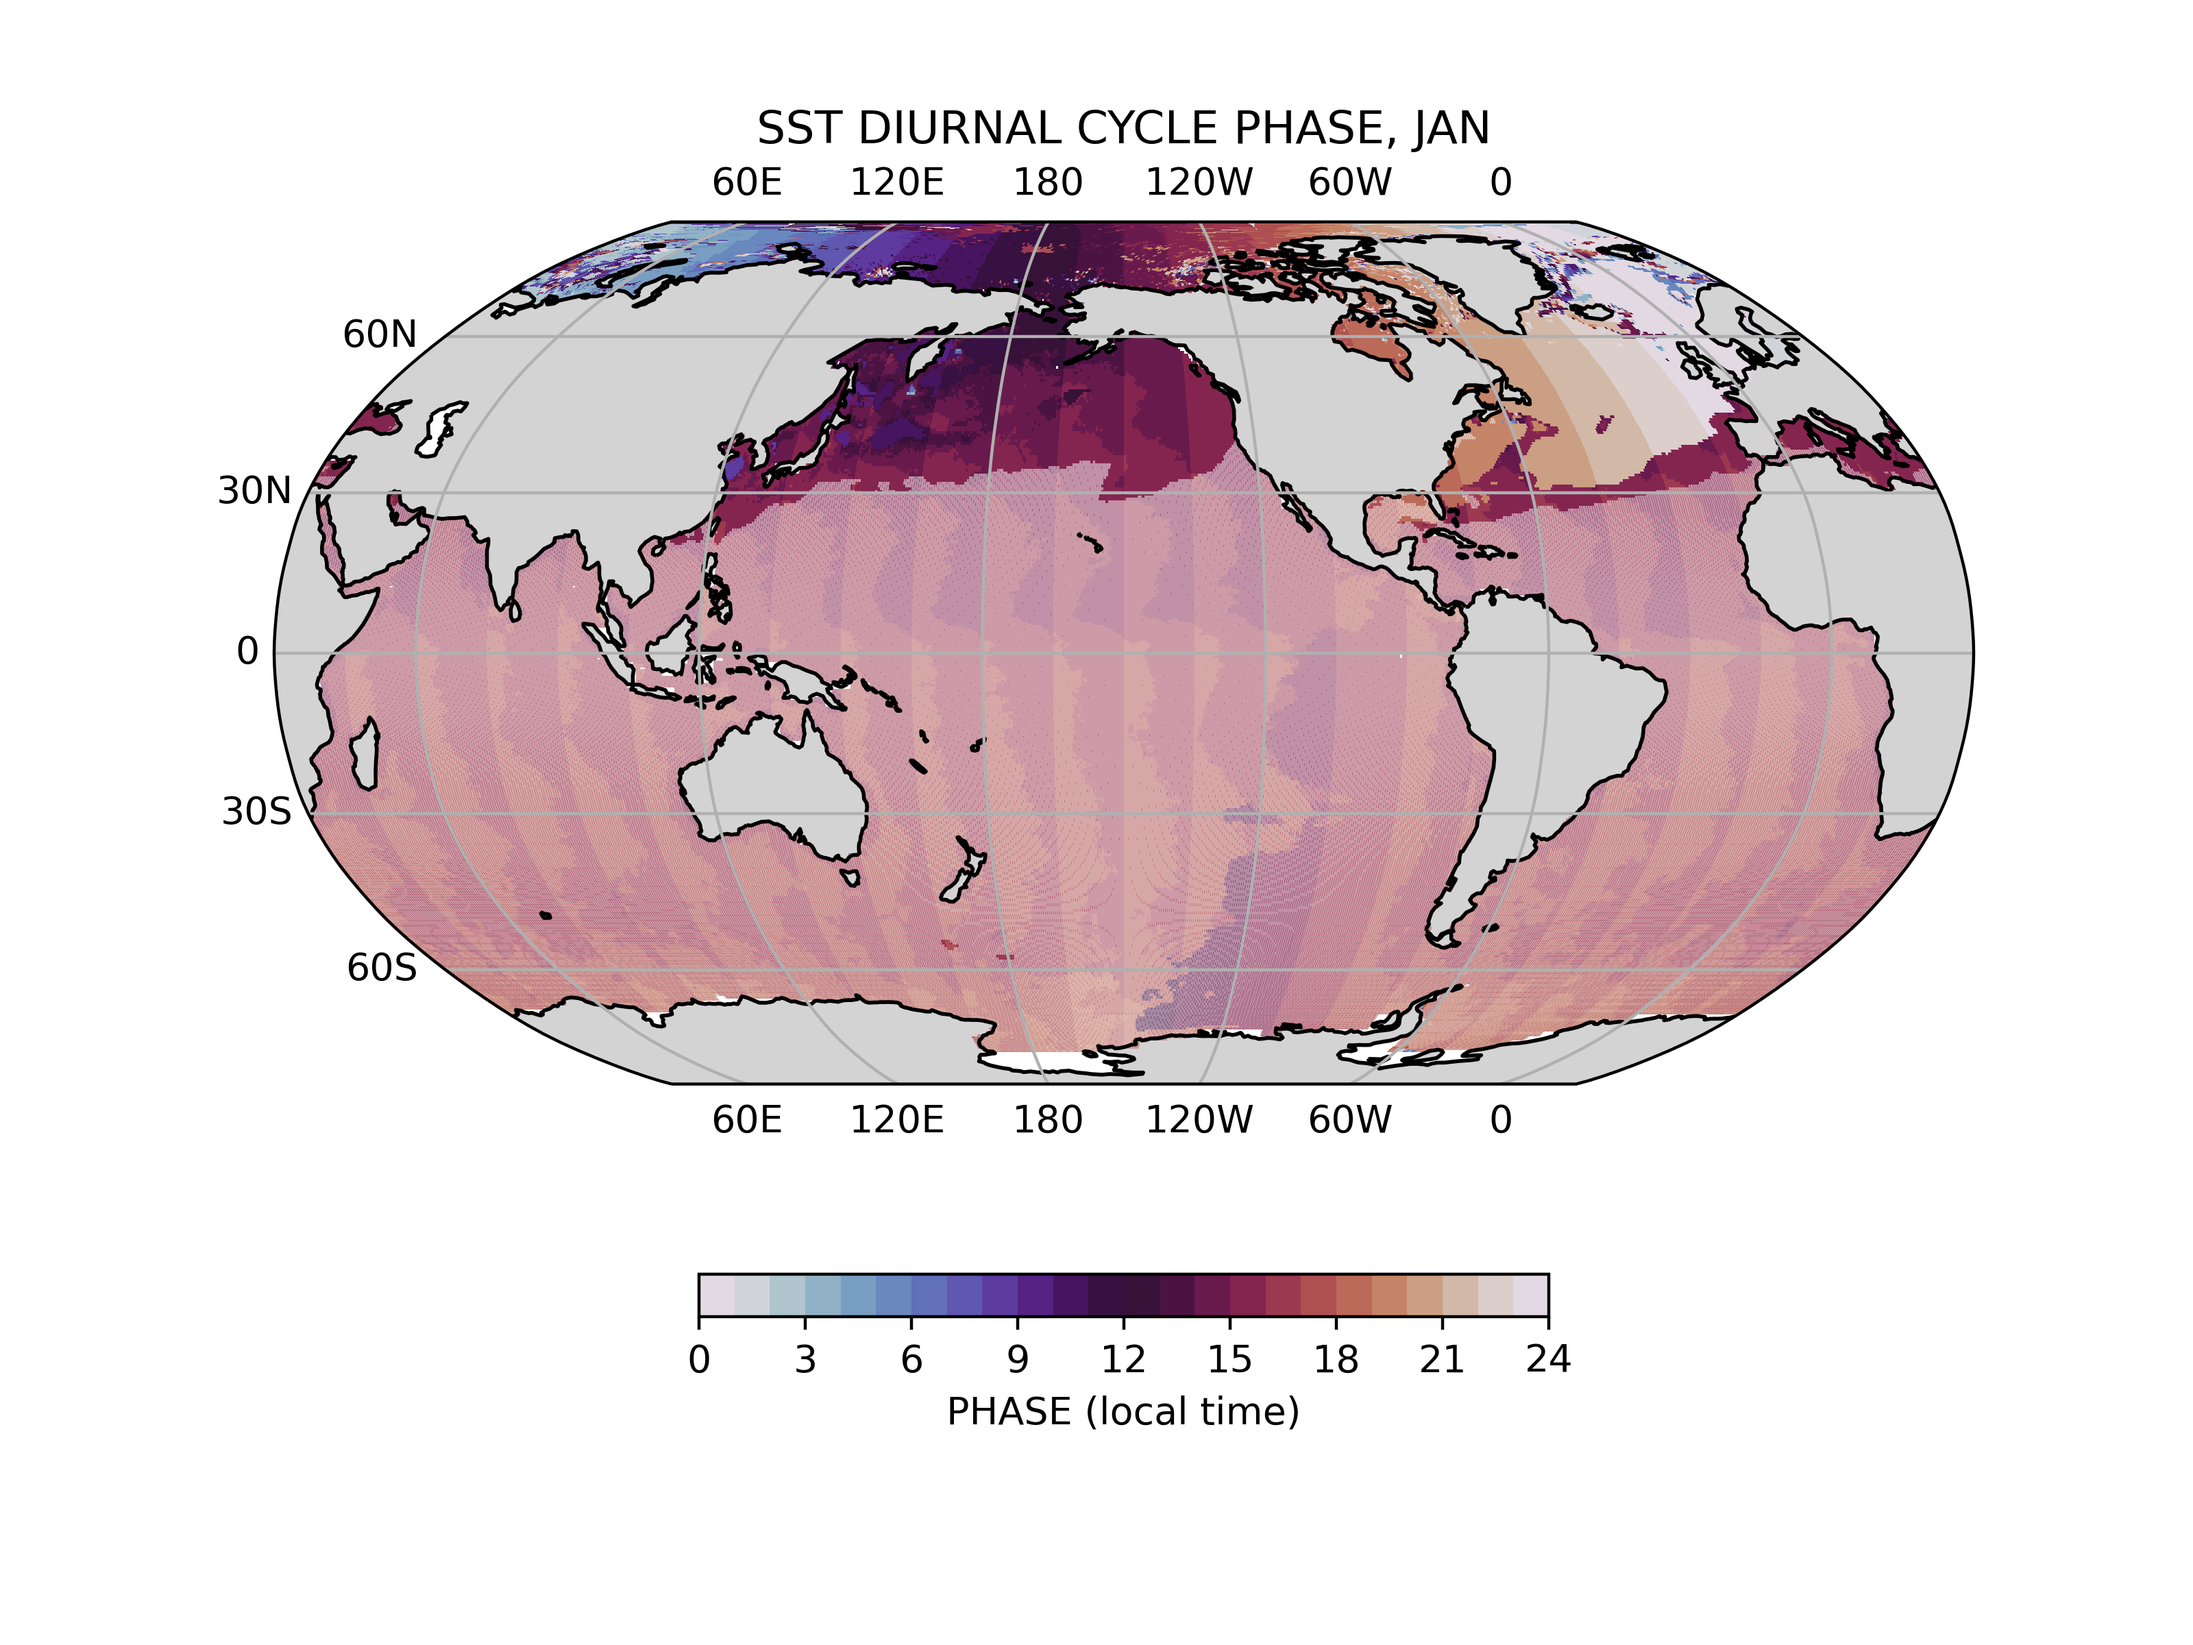
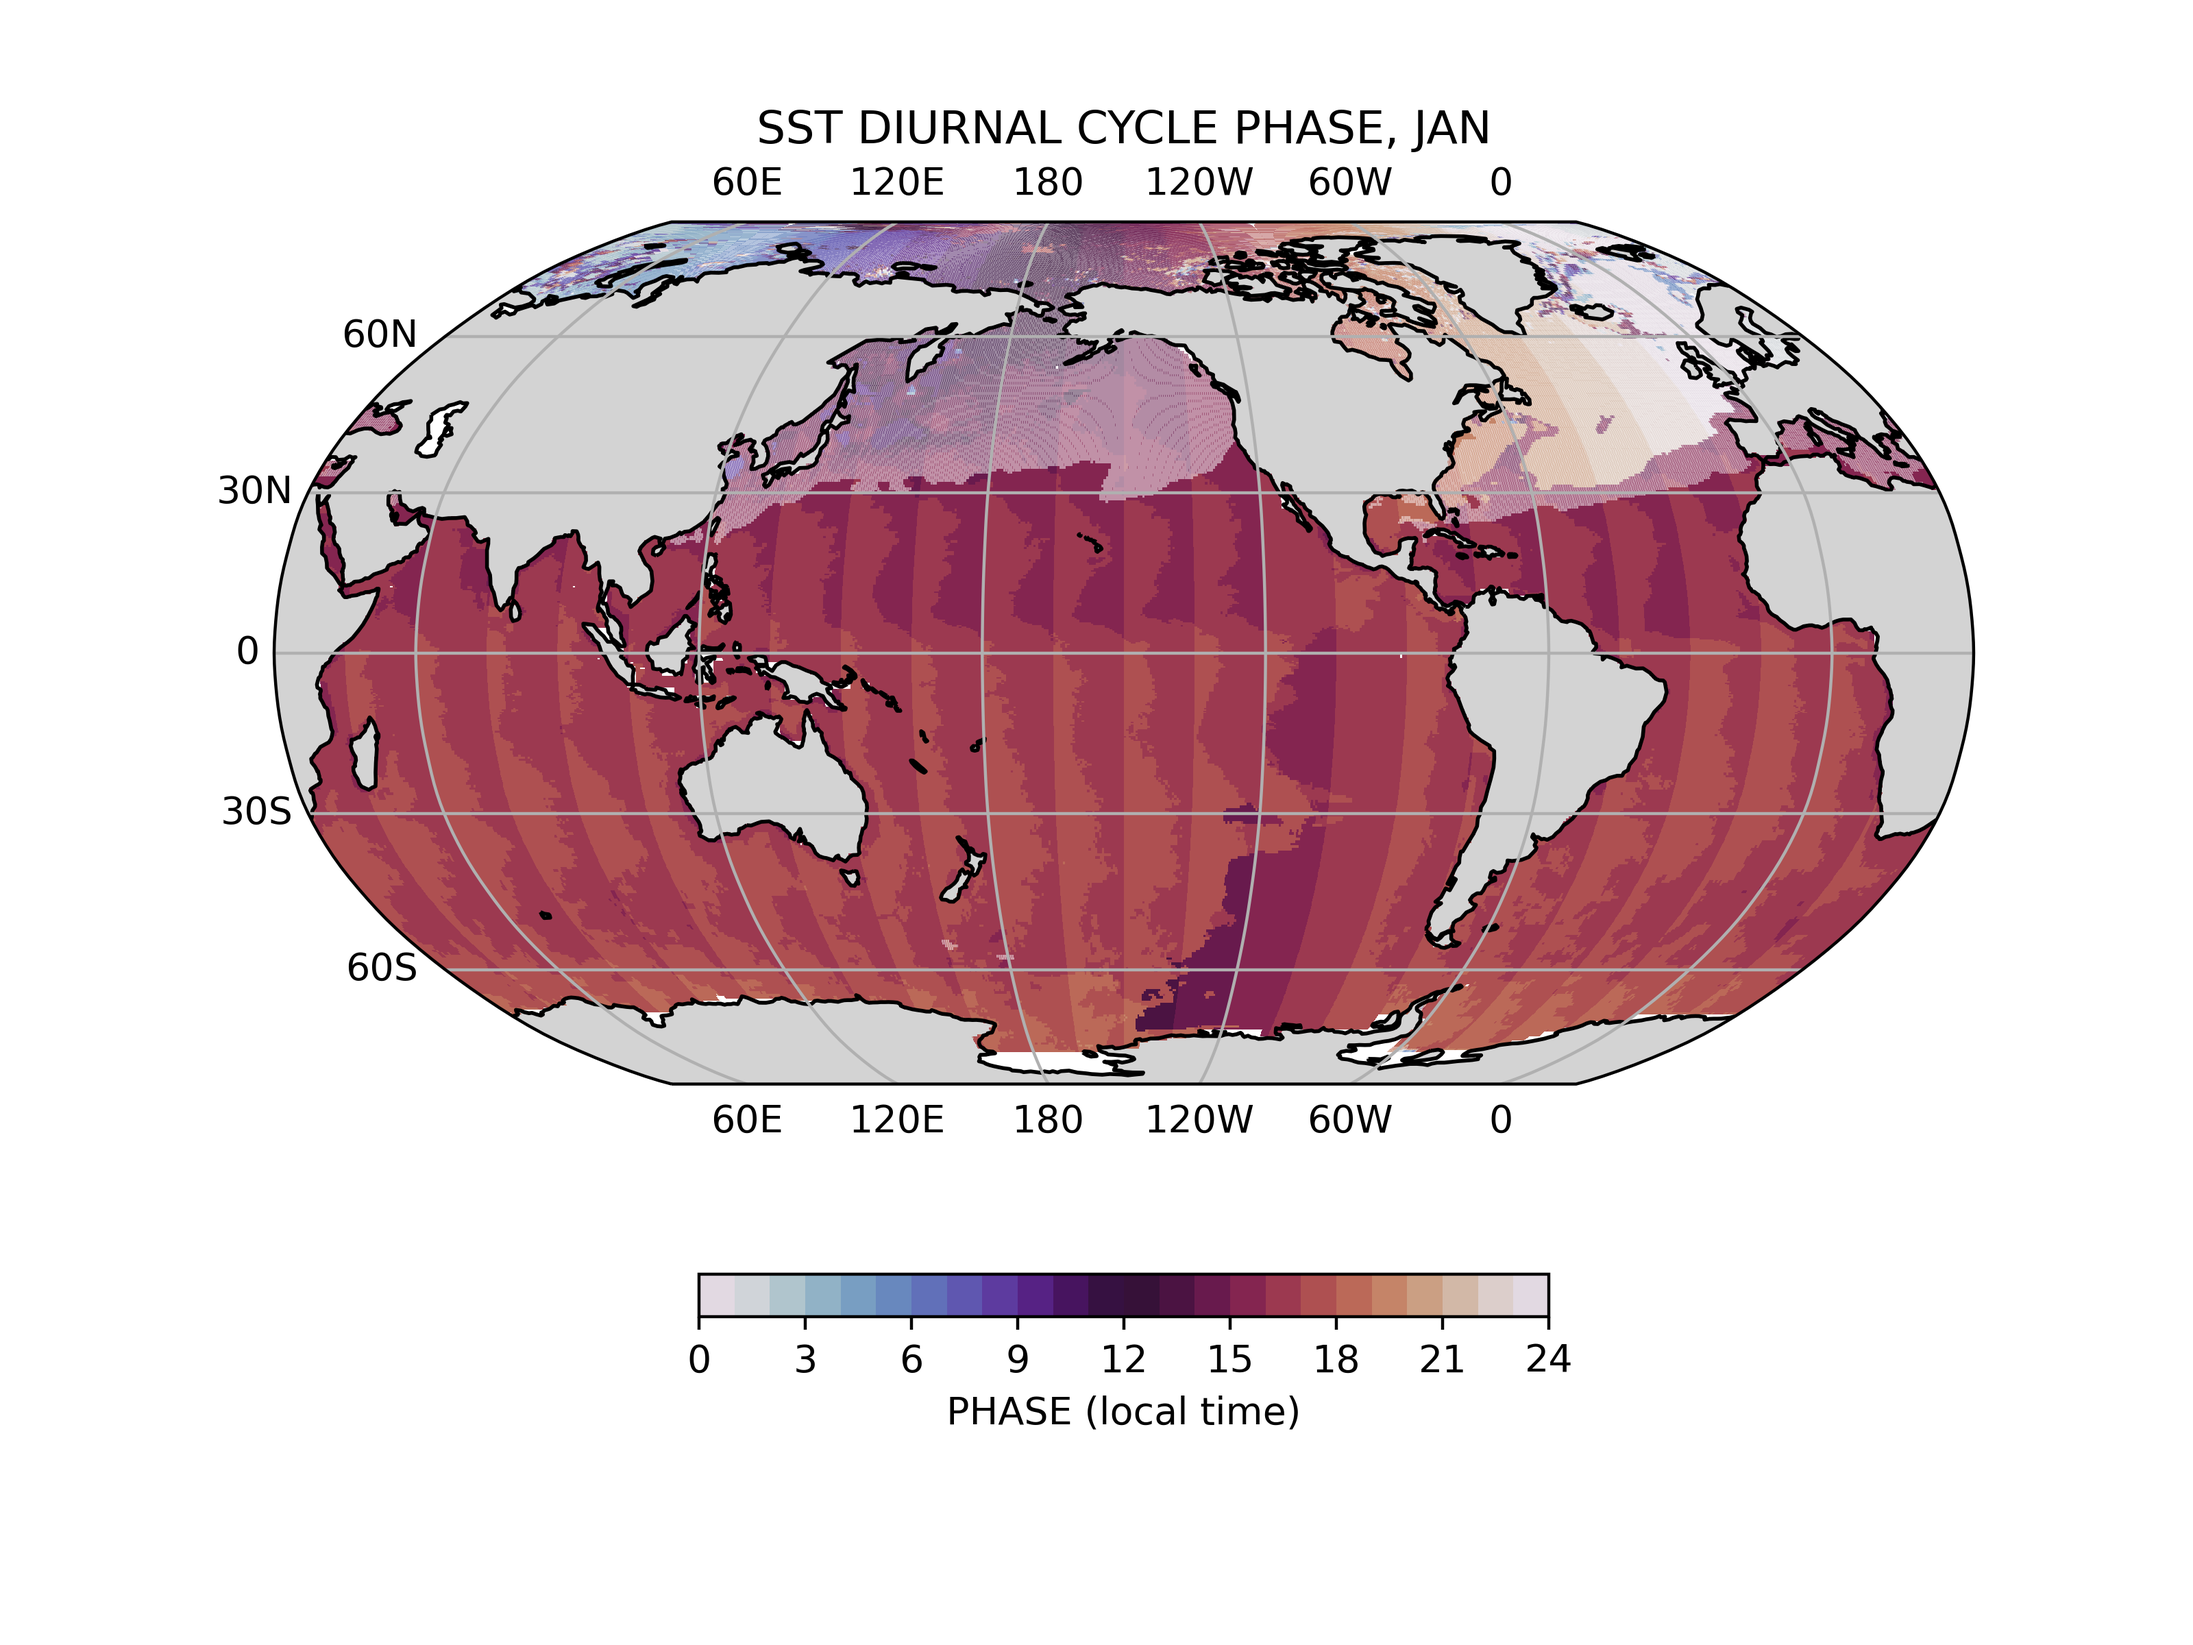
Fixes masking by diurnal temperature range; changes colorbar limits.

Changed region(s): [[0.125, 0.125, 0.875, 0.6562], [0.125, 0.2812, 0.1562, 0.3438], [0.1562, 0.25, 0.1875, 0.2812]]

diff --git a/diurnal_cycle/analysis/diurnal_range_maps.py b/diurnal_cycle/analysis/diurnal_range_maps.py
@@ -223,7 +223,7 @@ def plot_one_map(ds, ptype, pvar, mon):
                           cmap=cmap_b, norm=norm_b, shading='nearest')
     else:
         import numpy.ma as ma
-        dsm = ma.masked_where(ds['RANGE'].data > range_mask, ds[ptype].data)
+        dsm = ma.masked_where(ds['RANGE'].data < range_mask, ds[ptype].data)
         ptr = ax.pcolormesh(switch_lon_lims(ds[plot_dets(pvar, 'lonname')].data, -180.0),
                             ds[plot_dets(pvar, 'latname')].data,
 	        	    ds[ptype].data, alpha=0.5,
@@ -329,13 +329,13 @@ def plot_dets(vn, att, pty=None):
 	    'cmapPHASE':'twilight',
 	    'unitsPHASE':'local time',
 	    'minHALF_DEPTH':0.0,
-	    'maxHALF_DEPTH':40.0,
-	    'stepHALF_DEPTH':5.0,
+	    'maxHALF_DEPTH':20.0,
+	    'stepHALF_DEPTH':2.0,
 	    'cmapHALF_DEPTH':'magma',
 	    'unitsHALF_DEPTH':'m',
 	    'minPHASE_DELAY':0.0,
-	    'maxPHASE_DELAY':12.0,
-	    'stepPHASE_DELAY':1.0,
+	    'maxPHASE_DELAY':6.0,
+	    'stepPHASE_DELAY':0.5,
 	    'cmapPHASE_DELAY':'magma',
 	    'unitsPHASE_DELAY':'hours'
 
